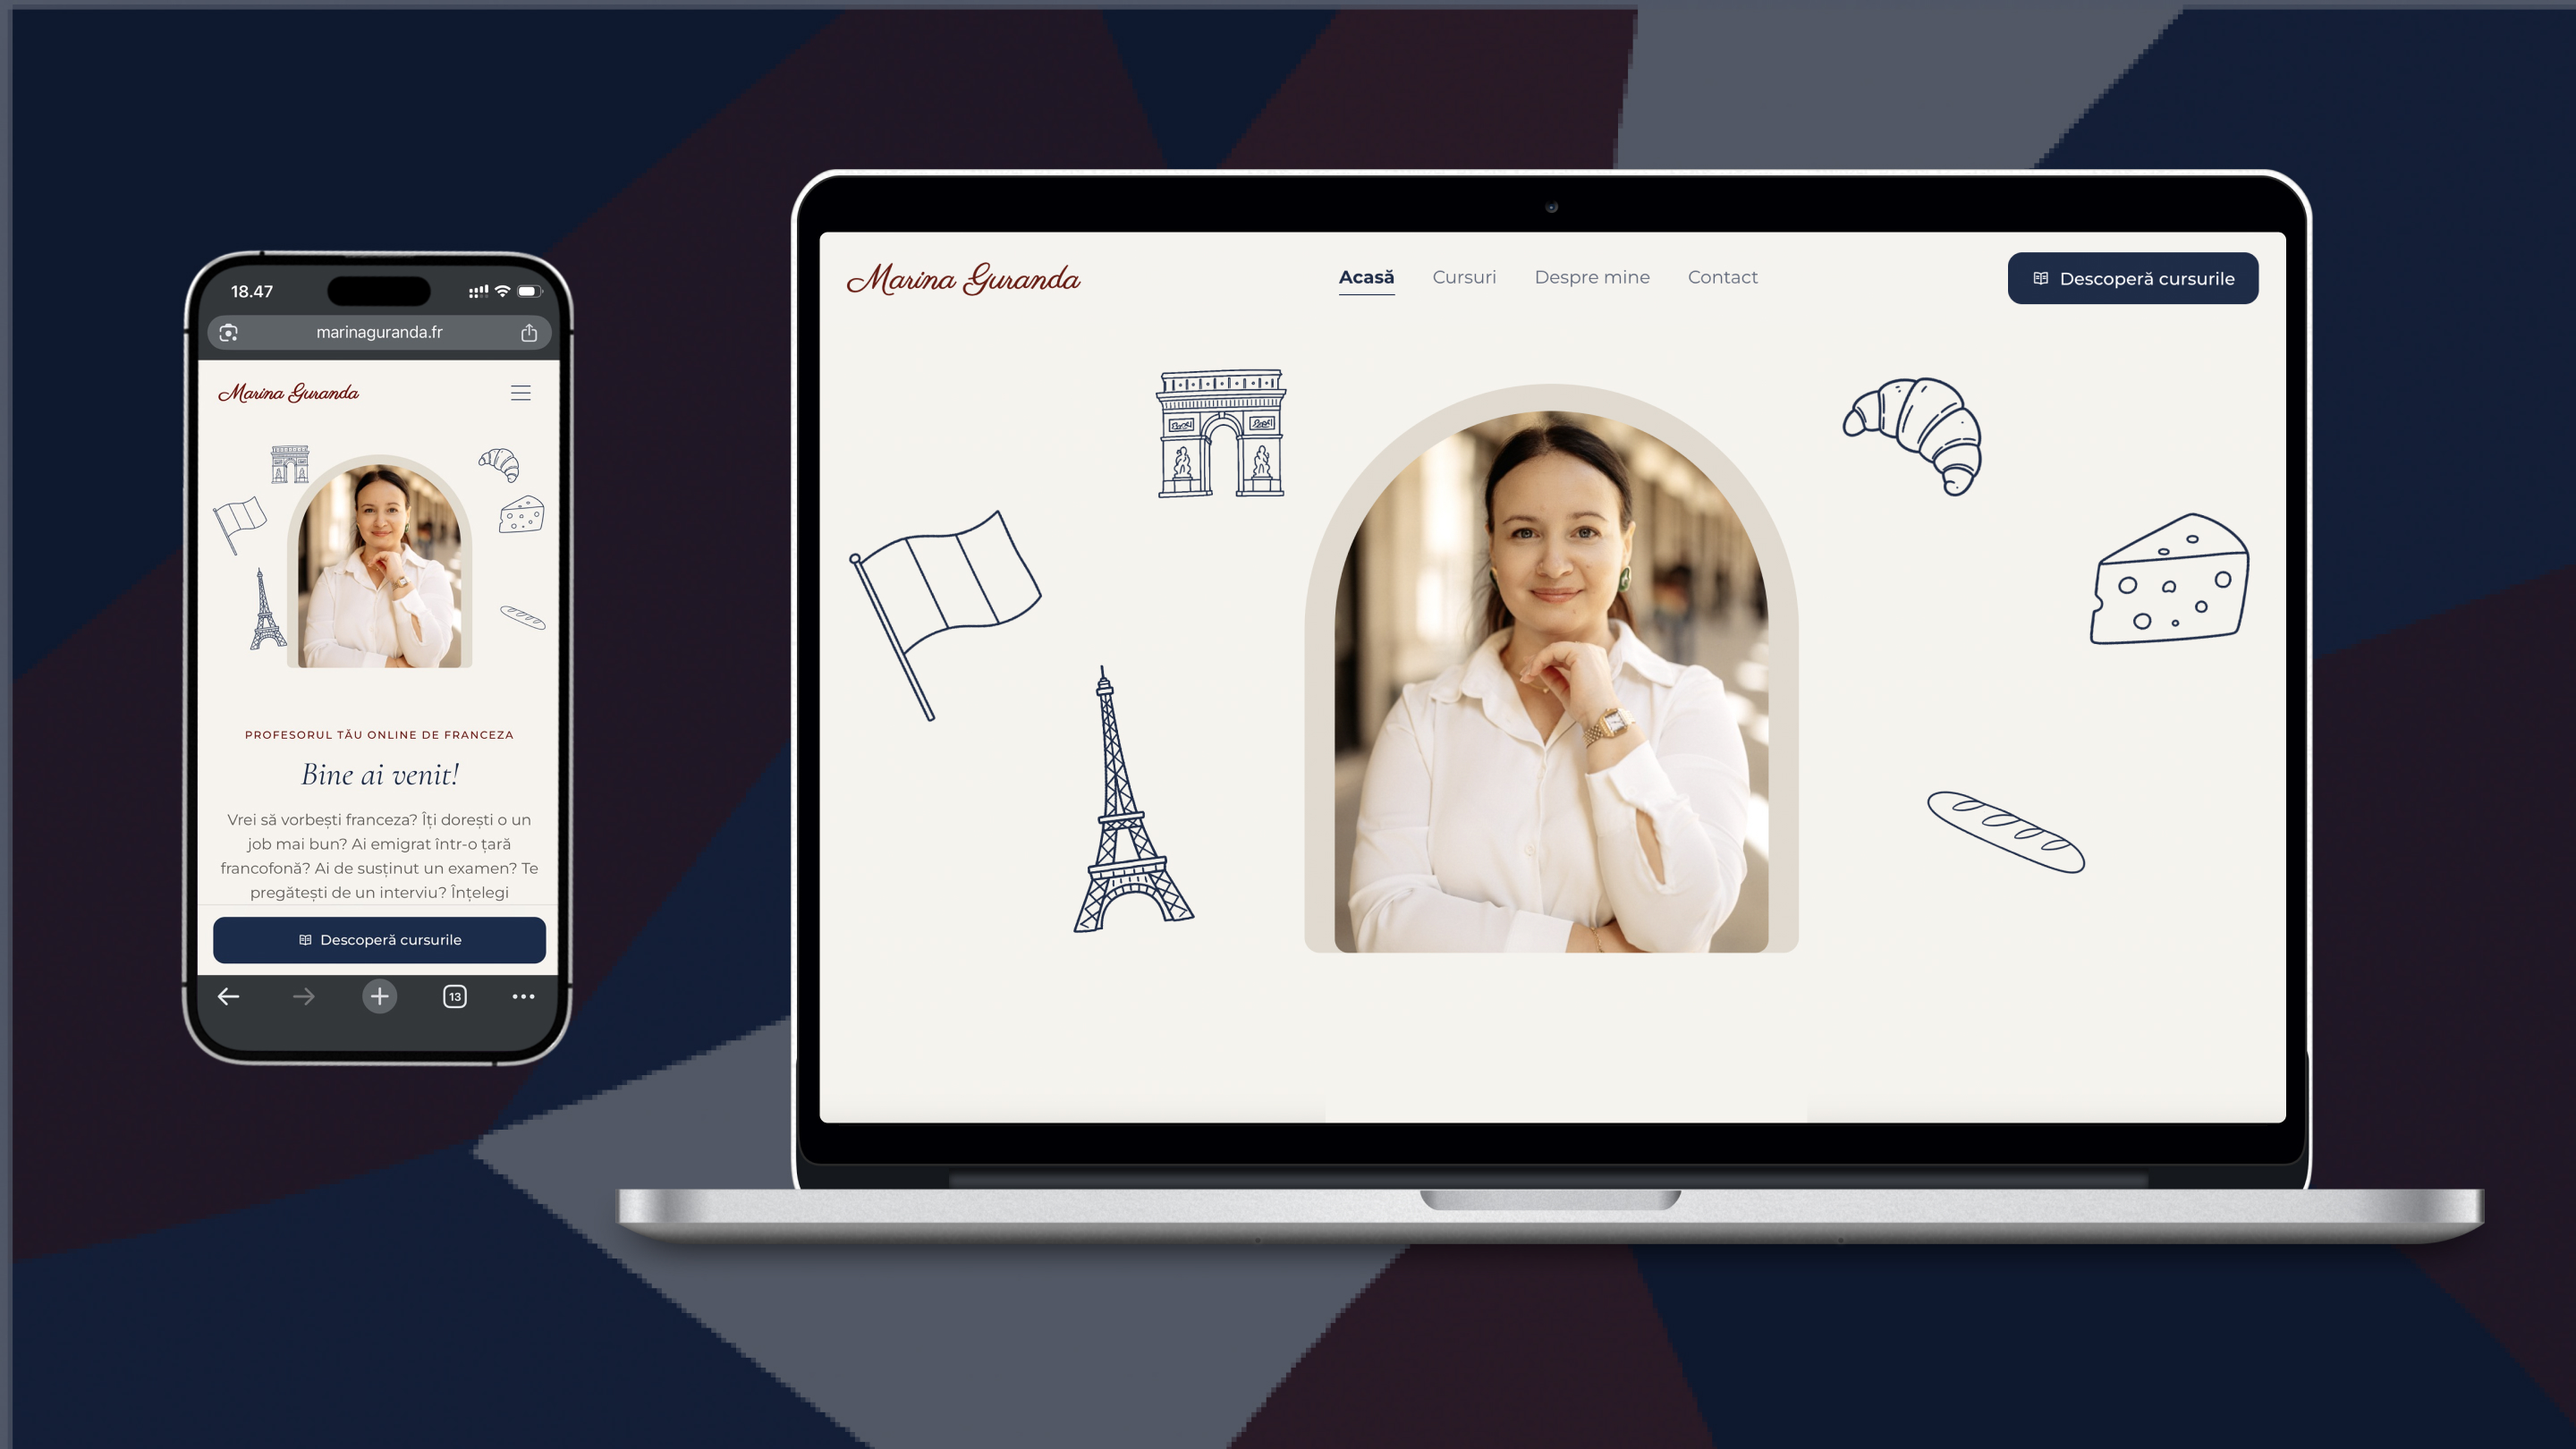
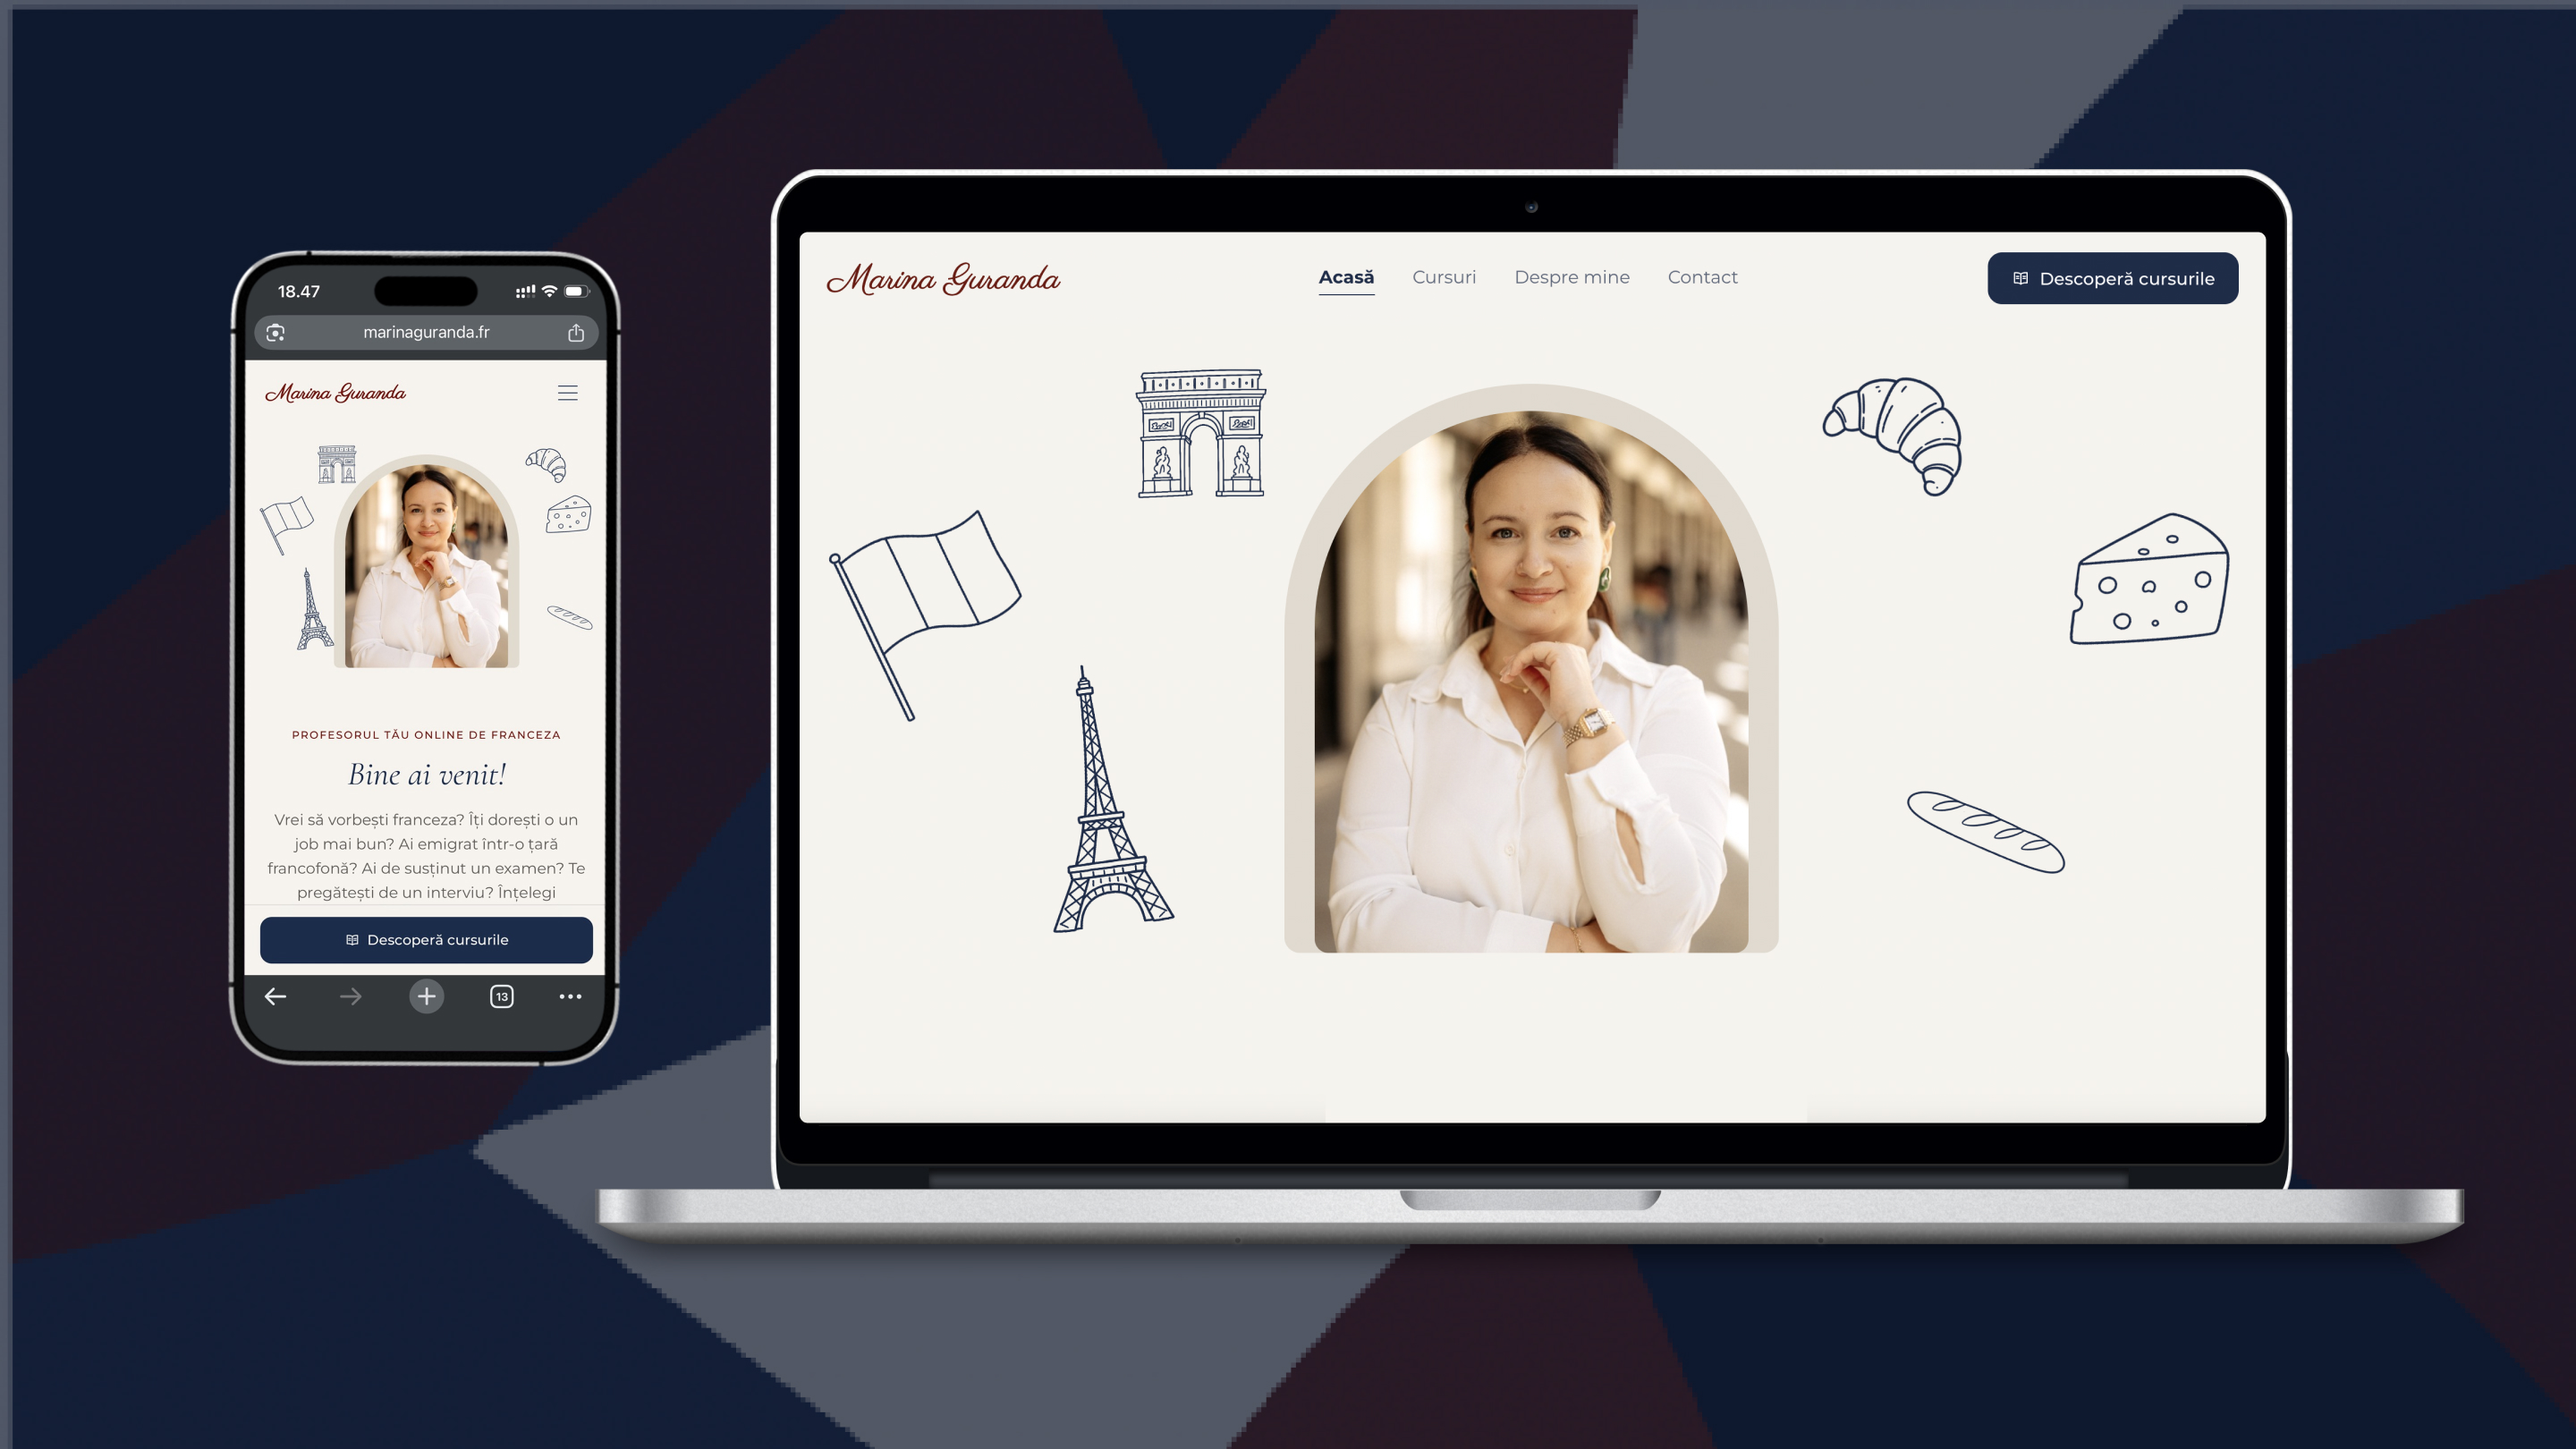
Replace the Marina phone-and-laptop mockup with the tighter crop on the case study and project cards.

diff --git a/marina-guranda-project.html b/marina-guranda-project.html
@@ -6,7 +6,7 @@
     <link rel="icon" href="assets/portfolio-logo.svg" type="image/svg+xml" />
     <title>Designing and Building a Website and Webshop for Marina Guranda | Octavia Sirbu</title>
     <script src="theme-init.js"></script>
-    <link rel="stylesheet" href="styles.css?v=vis-43" />
+    <link rel="stylesheet" href="styles.css?v=vis-44" />
   </head>
   <body class="page-project">
     <header class="site-header">
@@ -141,7 +141,7 @@
               />
               <img
                 class="project-onboarding-role__img"
-                src="assets/projects/marina/marina-devices.jpg?v=hq"
+                src="assets/projects/marina/marina-devices.jpg?v=hq2"
                 alt="Homepage on phone and laptop, with arched portrait and French line drawings"
                 loading="lazy"
                 decoding="async"

diff --git a/rotoy-project.html b/rotoy-project.html
@@ -6,7 +6,7 @@
     <link rel="icon" href="assets/portfolio-logo.svg" type="image/svg+xml" />
     <title>Designing a Website and Webshop for EdTech Startup Rotoy ApS | Octavia Sirbu</title>
     <script src="theme-init.js"></script>
-    <link rel="stylesheet" href="styles.css?v=vis-42" />
+    <link rel="stylesheet" href="styles.css?v=vis-44" />
   </head>
   <body class="page-project">
     <header class="site-header">

diff --git a/makerspace-project.html b/makerspace-project.html
@@ -6,7 +6,7 @@
     <link rel="icon" href="assets/portfolio-logo.svg" type="image/svg+xml" />
     <title>O'town Garage Makerspace Website Design | Octavia Sirbu</title>
     <script src="theme-init.js"></script>
-    <link rel="stylesheet" href="styles.css?v=vis-42" />
+    <link rel="stylesheet" href="styles.css?v=vis-44" />
   </head>
   <body class="page-project">
     <header class="site-header">

diff --git a/work.html b/work.html
@@ -6,7 +6,7 @@
     <link rel="icon" href="assets/portfolio-logo.svg" type="image/svg+xml" />
     <title>Work | Octavia Sirbu </title>
     <script src="theme-init.js"></script>
-    <link rel="stylesheet" href="styles.css?v=vis-42" />
+    <link rel="stylesheet" href="styles.css?v=vis-44" />
   </head>
   <body class="page-work">
     <header class="site-header">

diff --git a/styles.css b/styles.css
@@ -2130,7 +2130,7 @@ body.page-project--unlisted main {
 
 .thumb-marina {
   background-color: #0b1830;
-  background-image: url("assets/projects/marina/marina-devices.jpg");
+  background-image: url("assets/projects/marina/marina-devices.jpg?v=hq2");
   background-size: cover;
   background-position: center;
   background-repeat: no-repeat;
